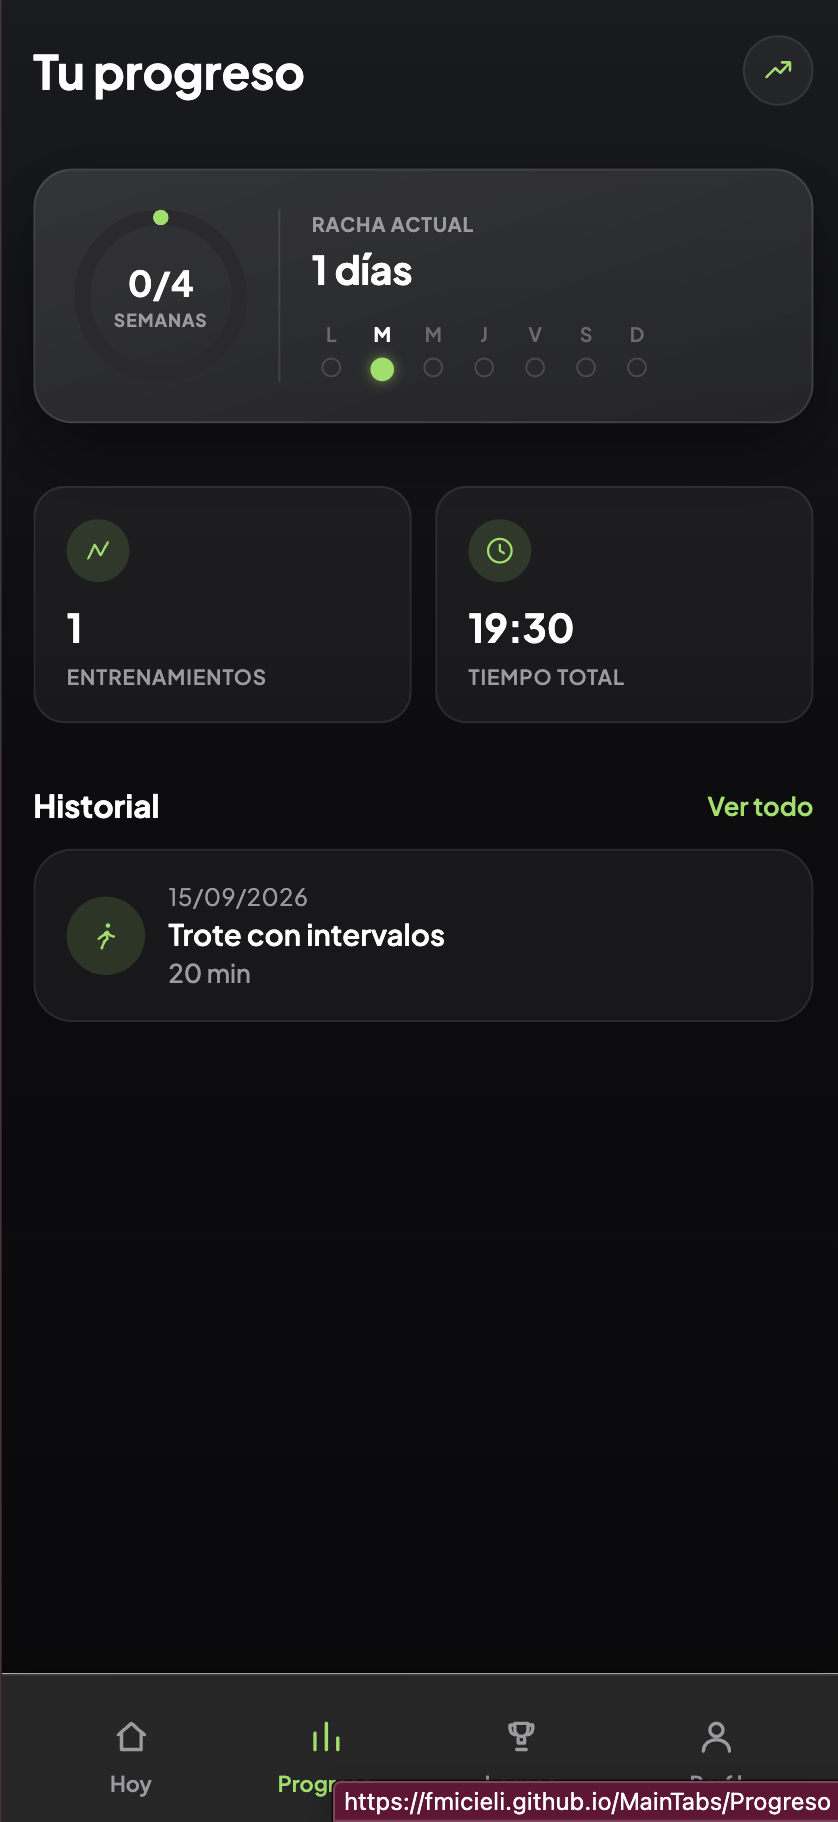
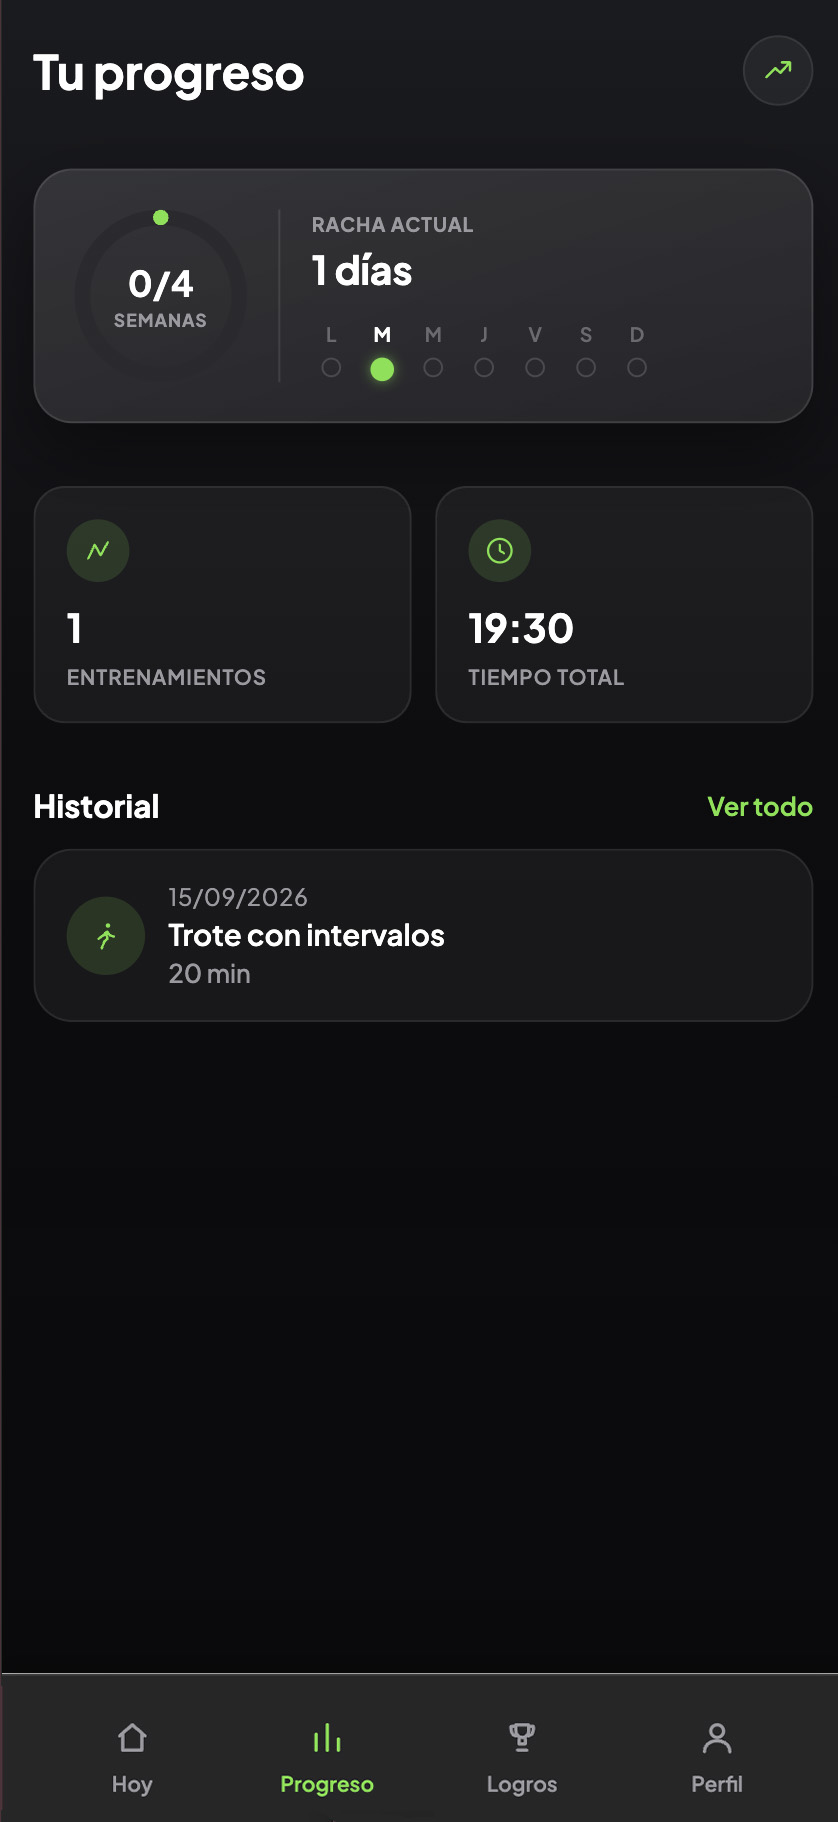
Clean up Stride wireframe screenshots, enlarge filmstrip 25%
- Remove the stray pink debug-URL overlay from the Progress, Achievements,
  and Profile hi-fi wireframe screenshots
- Enlarge the low/hi-fi wireframe filmstrip cards and captions 25%

Changed region(s): [[0.3413, 0.9528, 1.0, 1.0], [0.1241, 0.9528, 0.1862, 0.9835]]

diff --git a/components/case-study/WireframeFilmstripSection.tsx b/components/case-study/WireframeFilmstripSection.tsx
@@ -17,19 +17,21 @@ import { ImagePlaceholder } from "@/components/case-study/ImagePlaceholder";
 function WireframeCard({ screen, i }: { screen: WireframeScreen; i: number }) {
   return (
     <motion.div
-      className="flex w-[168px] shrink-0 flex-col items-center"
+      // 168 * 1.25
+      className="flex w-[210px] shrink-0 flex-col items-center"
       initial={{ opacity: 0, y: 12 }}
       whileInView={{ opacity: 1, y: 0 }}
       viewport={{ once: false, margin: "-40px" }}
       transition={{ duration: 0.4, delay: i * 0.05, ease: [0.22, 1, 0.36, 1] }}
     >
       {"placeholder" in screen.image ? (
-        <ImagePlaceholder spec={screen.image.placeholder} className="w-[168px]" />
+        <ImagePlaceholder spec={screen.image.placeholder} className="w-[210px]" />
       ) : (
         // eslint-disable-next-line @next/next/no-img-element
         <img src={screen.image.src} alt={screen.image.alt} className="w-full border border-border object-contain" />
       )}
-      <p className="mt-2.5 text-center text-xs text-text-muted">{screen.caption}</p>
+      {/* 12px * 1.25 = 15px, 16px * 1.25 = 20px */}
+      <p className="mt-2.5 text-center text-[15px] leading-5 text-text-muted">{screen.caption}</p>
     </motion.div>
   );
 }
